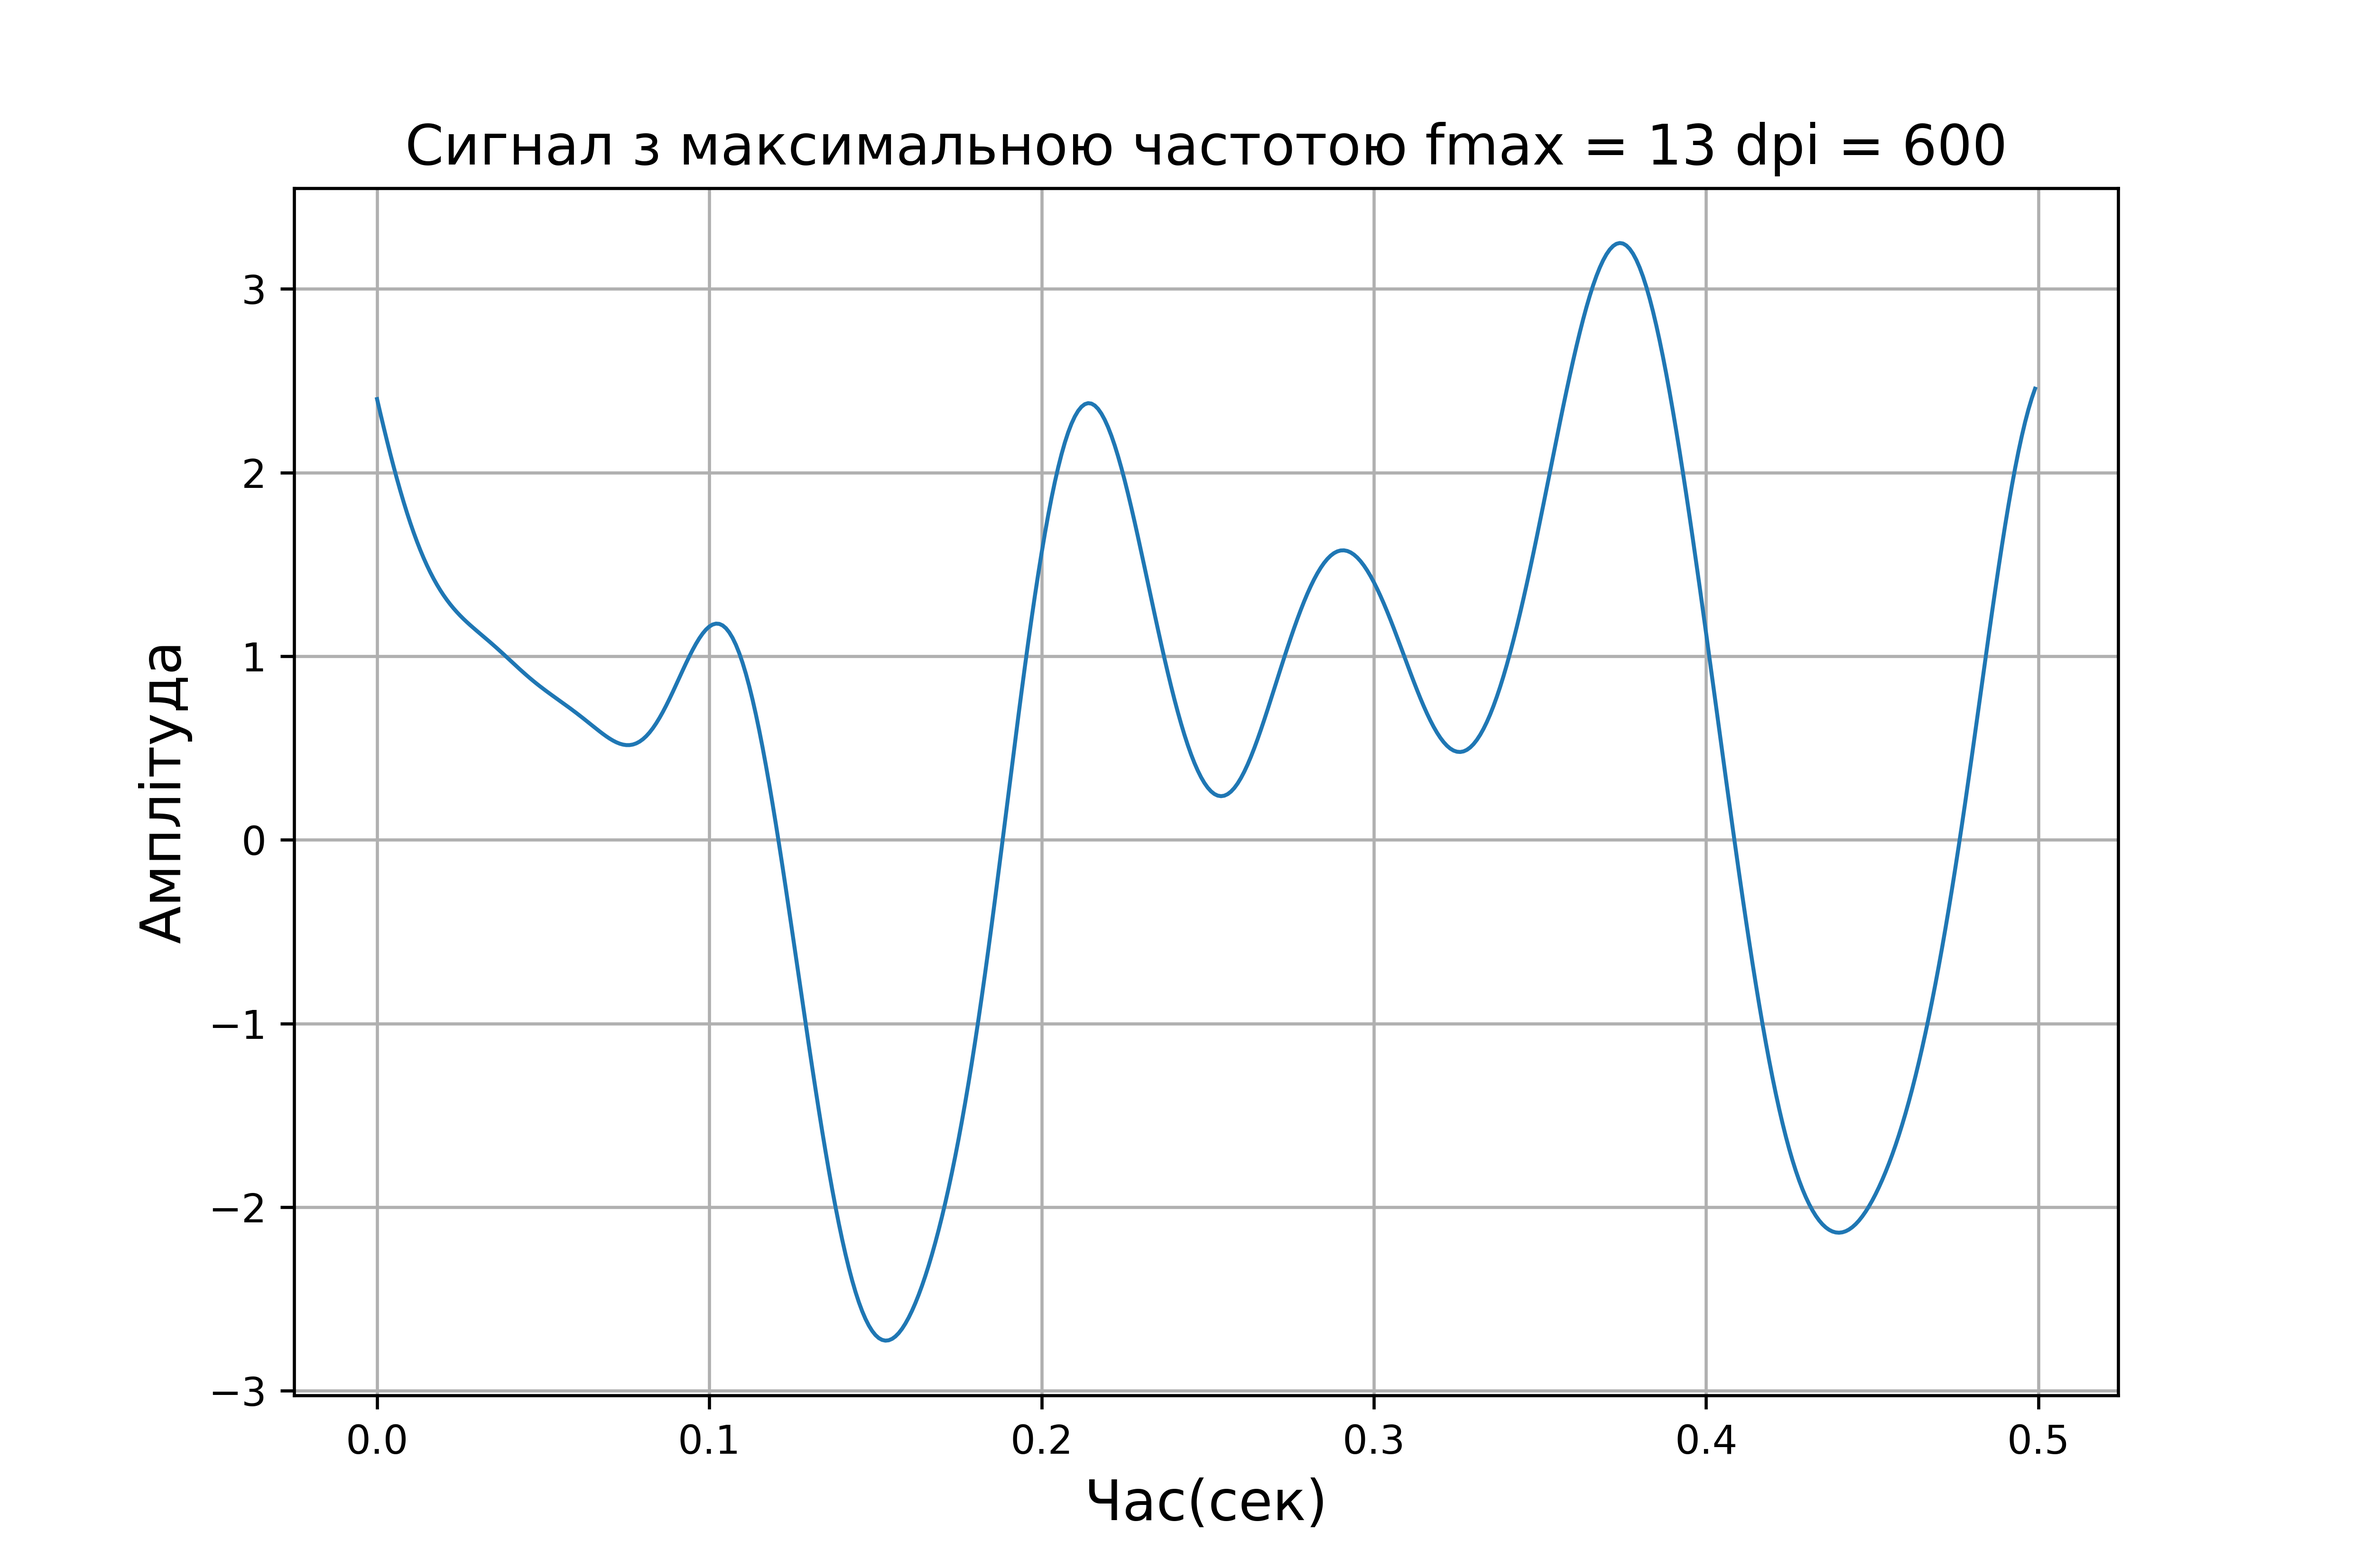
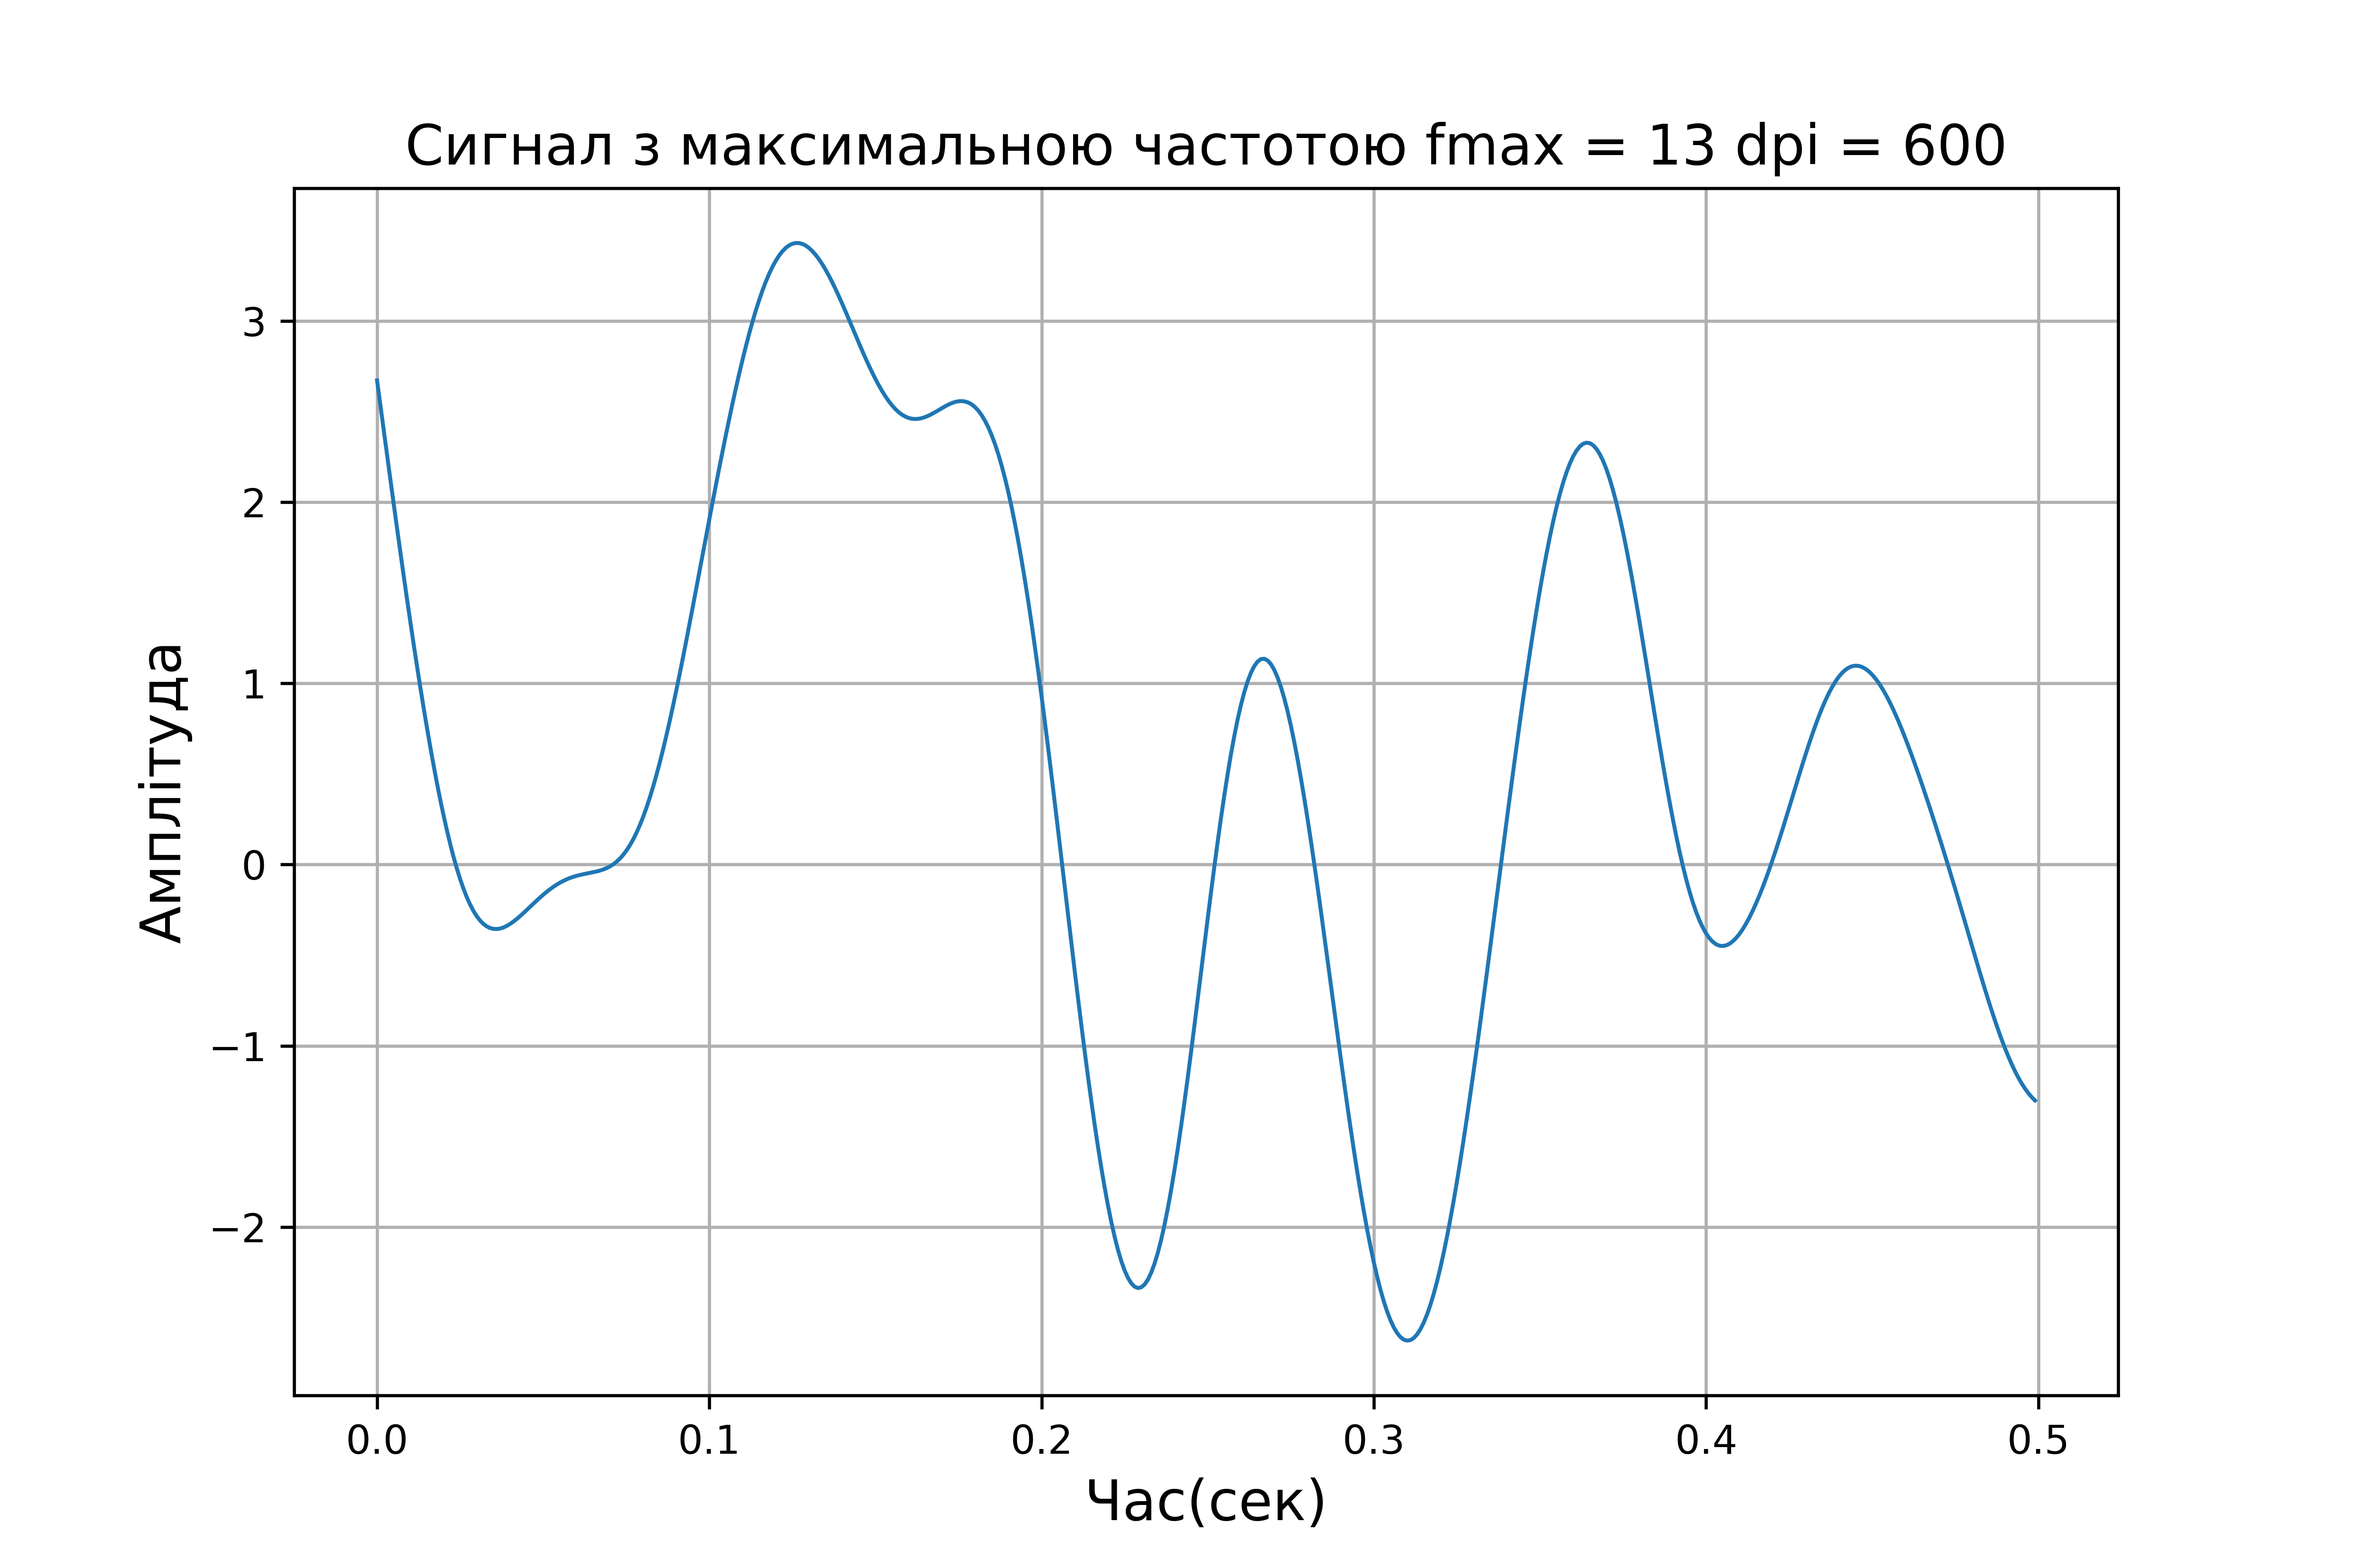
Signal processing, 2

diff --git a/SignalProcessing/SignalProcessing.py b/SignalProcessing/SignalProcessing.py
@@ -3,7 +3,7 @@ import scipy
 import matplotlib.pyplot as plt
 
 '''
-Лабораторна робота №2
+Лабораторна робота №2/3
 студента групи 519ст
 Водолажського Владислава
 Варіант 6
@@ -14,6 +14,7 @@ def build_graphic():
     n = 500
     fs = 1000
     fmax = 13
+    f_fil = 20
 
     title1 = "Сигнал з максимальною частотою fmax = {0} dpi = 600".format(fmax)
     title2 = "Спектр з максимальною частотою fmax = {0} dpi = 600".format(fmax)
@@ -52,7 +53,78 @@ def build_graphic():
     plt.title(title2, fontsize=14)
     ax.grid()
     fig.savefig('./figures/' + 'графік 2' + '.png', dpi=600)
+
+    # Практична робота №3
+    discrete_signals = []
+    discrete_signal_after_filers = []
+
+    w = f_fil / (fs / 2)
+    parameters_fil = scipy.signal.butter(3, w, 'low', output='sos')
+    filtered_signal2 = None
+
+    for Dt in [2, 4, 8, 16]:
+        discrete_signal = numpy.zeros(n)
+        for i in range(0, round(n / Dt)):
+            discrete_signal[i * Dt] = filtered_signal[i * Dt]
+            filtered_signal2 = scipy.signal.sosfiltfilt(parameters_fil, discrete_signal)
+            ...
+        discrete_signals += [list(discrete_signal)]
+        discrete_spectrums = scipy.fft.fft(discrete_signals)
+        discrete_spectrums = numpy.abs(scipy.fft.fftshift(discrete_spectrums))
+        discrete_signal_after_filers += [list(filtered_signal2)]
+        ...
+
+    e1 = discrete_signal_after_filers - filtered_signal
+    print(e1)
+    print("______________________")
+
+    x1 = [2, 4, 8, 16]
+    e2 = e1[0][0:len(x1)]
+    signal_noise = numpy.var(e1)/numpy.var(filtered_signal)
+    signal_noise2 = []
+    for i in range(len(x1)):
+        signal_noise2.append(signal_noise - e1[0][i])
+
+    print(x1)
+    print(signal_noise)
+    x_lab = "Час (секунд)"
+    y_lab = "Амплітуда сигналу"
+    title_disc = "Сигнал з кроком дискретизації Dt = (2, 4, 8, 16)"
+
+    draw2(time_line_ox, discrete_signals, x_lab, y_lab, title_disc, "графік 3")
+    draw2(freq_countdown, discrete_spectrums, x_lab, "Амплітуда спектру", title_disc, "графік 4")
+    draw2(time_line_ox, discrete_signal_after_filers, x_lab, y_lab, title_disc, "графік 5")
+    draw1(x1, e2, "Крок дискретизації", "Дисперсія", "Залежність дисперсії від кроку дискретизації", "графік 6")
+    draw1(x1, signal_noise2, "Крок дискретизації", "ССШ", "Залежність дисперсії від кроку дискретизації", "графік 7")
+
     ...
+
+
+def draw2(x, y, x_lab: str, y_lab: str, title: str, file_name: str):
+    s = 0
+    fig, ax = plt.subplots(2, 2, figsize=(21 / 2.54, 14 / 2.54))
+    for i in range(0, 2):
+        for j in range(0, 2):
+            ax[i][j].plot(x, y[s], linewidth=1)
+            s += 1
+            ...
+        ...
+    fig.supxlabel(x_lab, fontsize=14)
+    fig.supylabel(y_lab, fontsize=14)
+    fig.suptitle(title, fontsize=14)
+    fig.savefig('./figures/' + file_name + '.png', dpi=600)
+
+
+def draw1(x, y, x_lab: str, y_lab: str, title: str, file_name: str):
+    fig, ax = plt.subplots(figsize=(21 / 2.54, 14 / 2.54))
+
+    ax.plot(x, y, linewidth=2)
+    ax.set_xlabel(x_lab, fontsize=14)
+    ax.set_ylabel(y_lab, fontsize=14)
+
+    plt.title(title, fontsize=14)
+    ax.grid()
+    fig.savefig('./figures/' + file_name + '.png', dpi=600)
 
 
 build_graphic()
